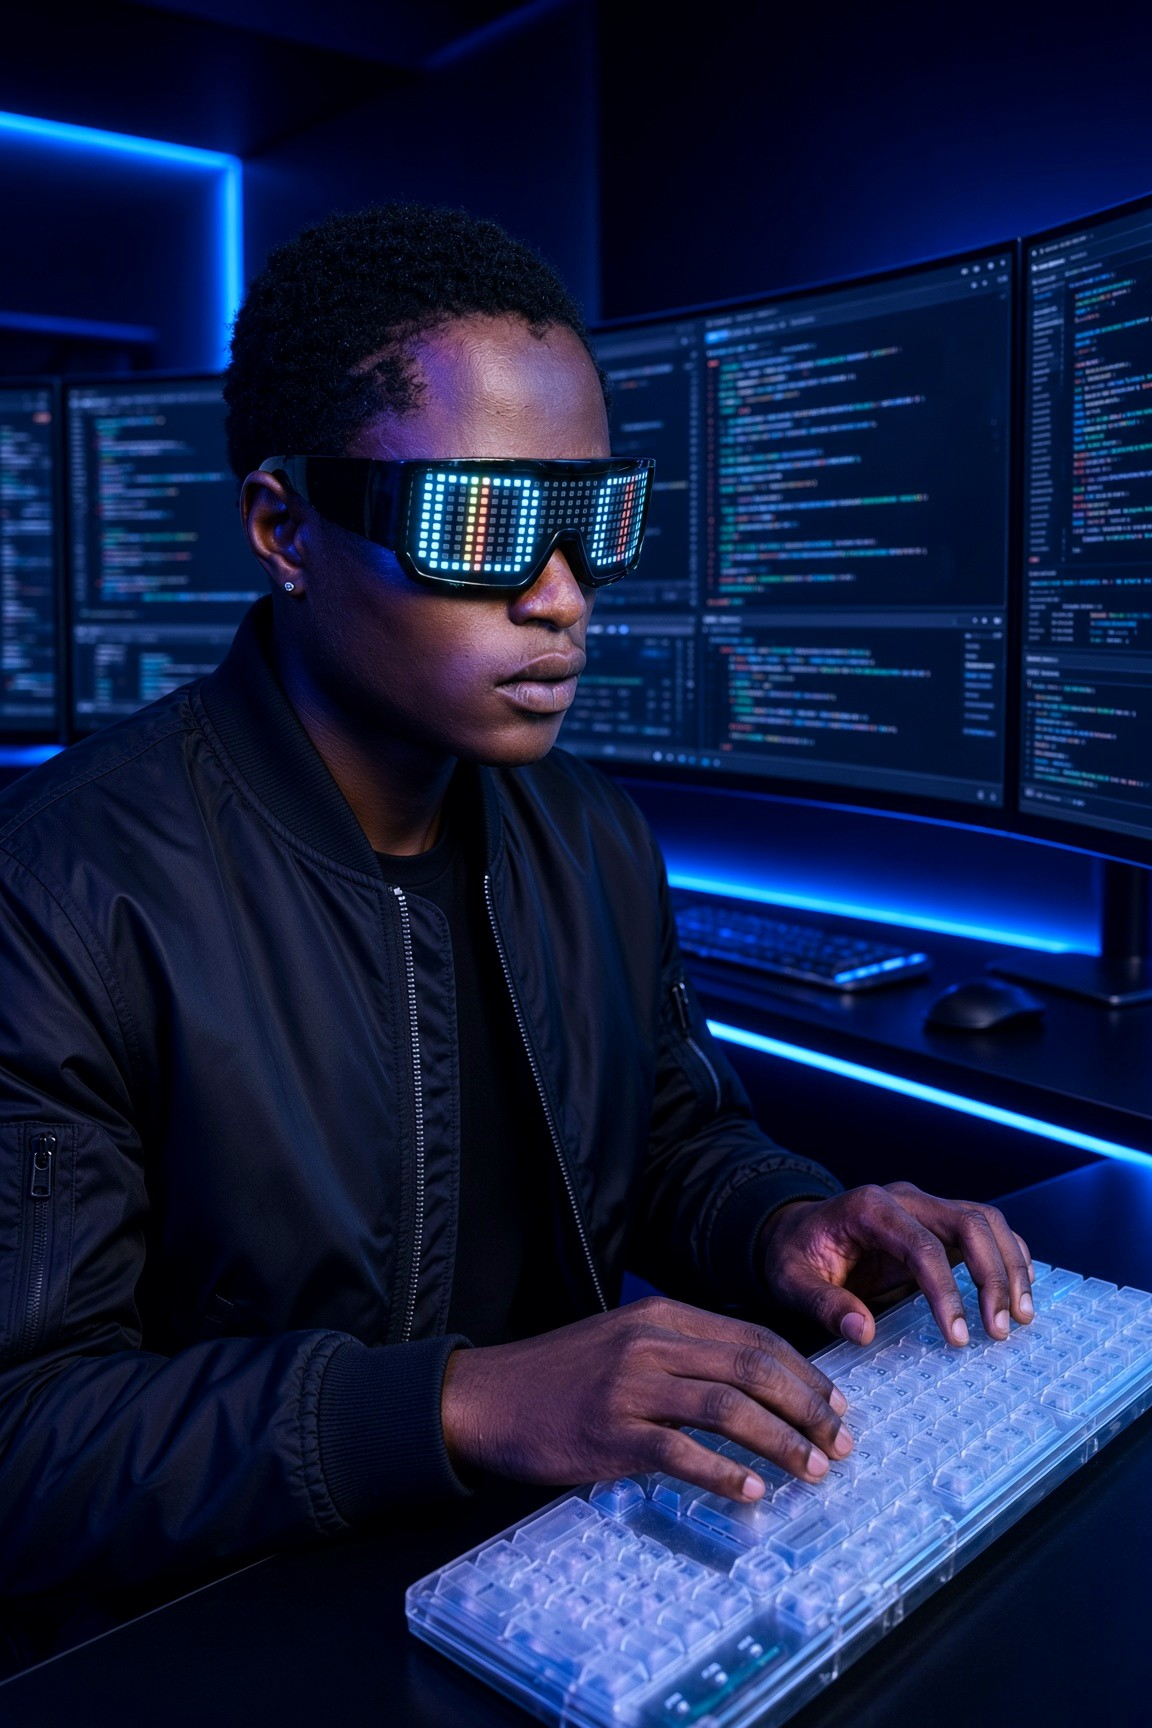
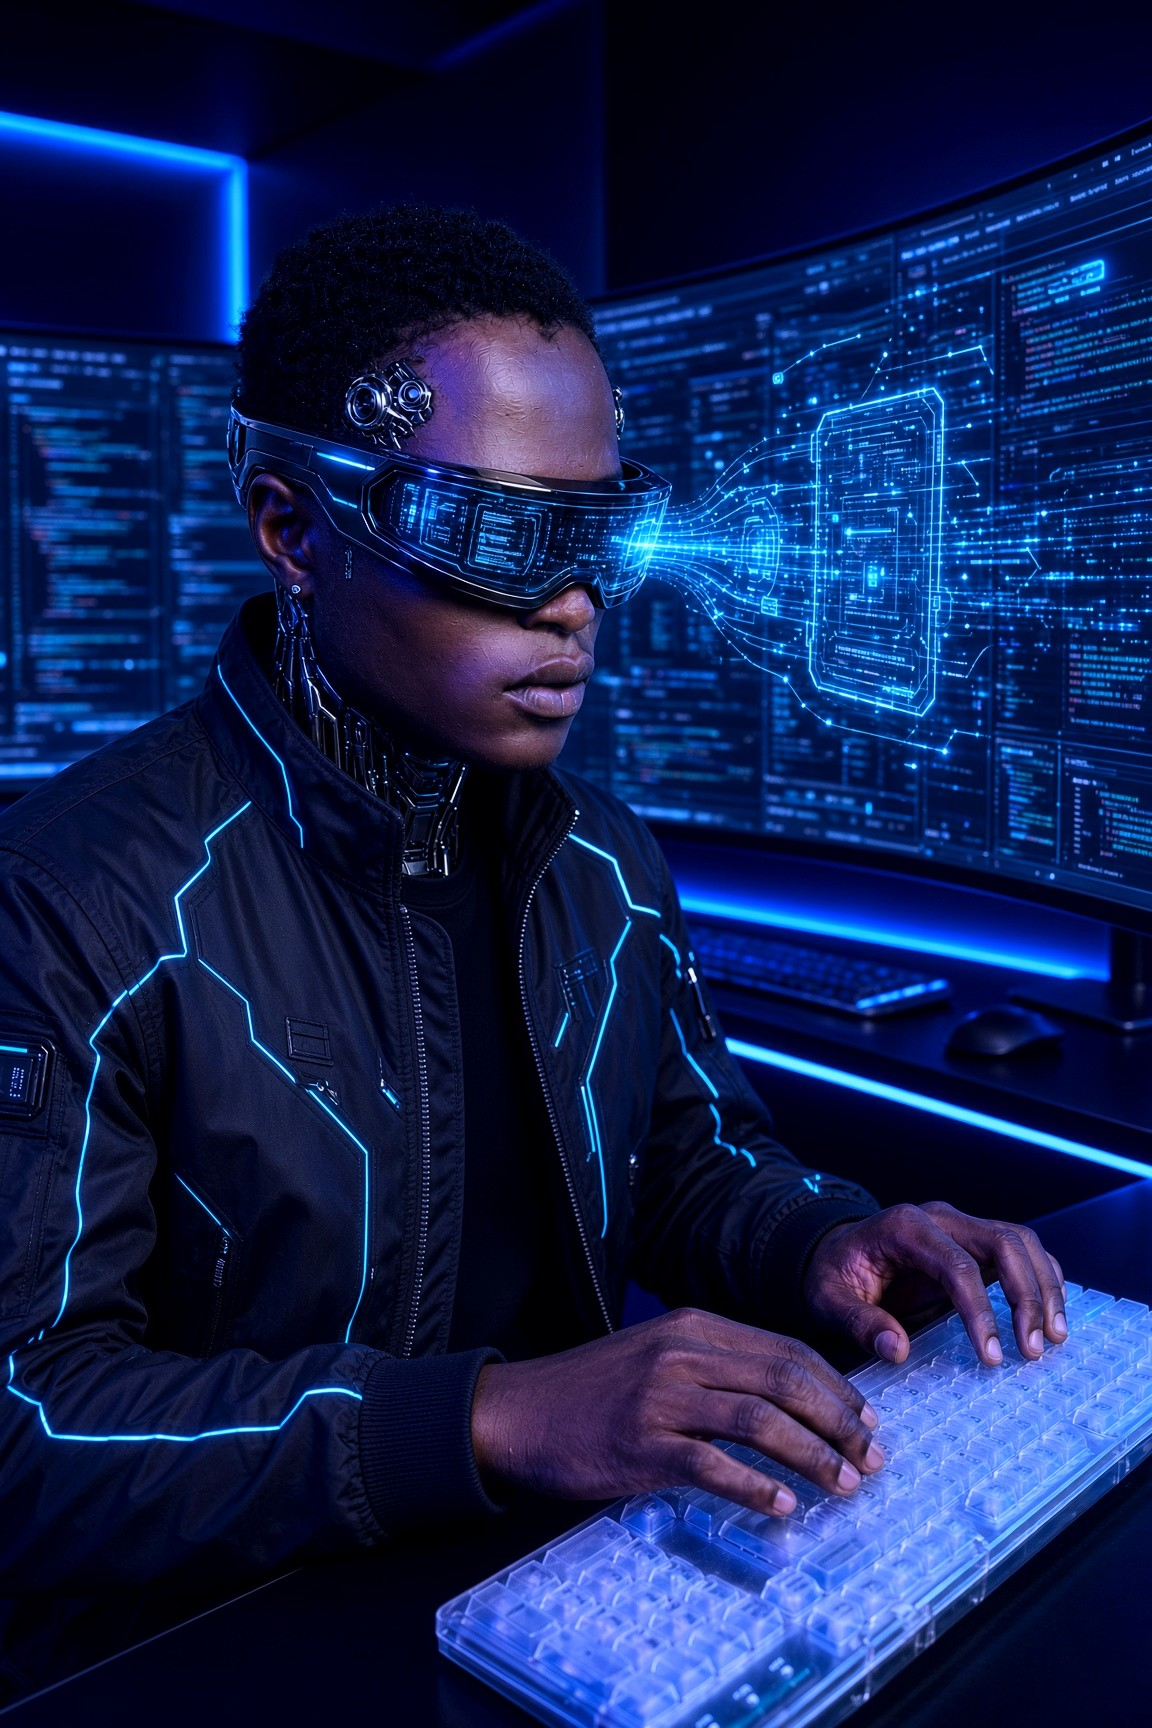
Push hero toward a cybernetic HUD operator
Human face kept under a robotic visor with cyan holograms — not a full android.

diff --git a/src/components/home-page.tsx b/src/components/home-page.tsx
@@ -101,7 +101,7 @@ function Hero() {
         <div className="relative min-h-[320px] sm:min-h-[420px]">
           <img
             src="/images/hero.jpg"
-            alt="HACYBERGLOBALTECH operator"
+            alt="HACYBERGLOBALTECH cyber operator"
             className="h-[340px] w-full rounded-2xl object-cover object-[40%_18%] shadow-[var(--shadow-card)] outline outline-1 -outline-offset-1 outline-white/10 sm:h-[440px] lg:hidden"
           />
           <div className="absolute top-4 right-2 w-[190px] rounded-xl border border-line bg-surface/55 p-4 shadow-[var(--shadow-glow)] backdrop-blur-xl sm:right-6 sm:top-8 sm:w-[210px]">
